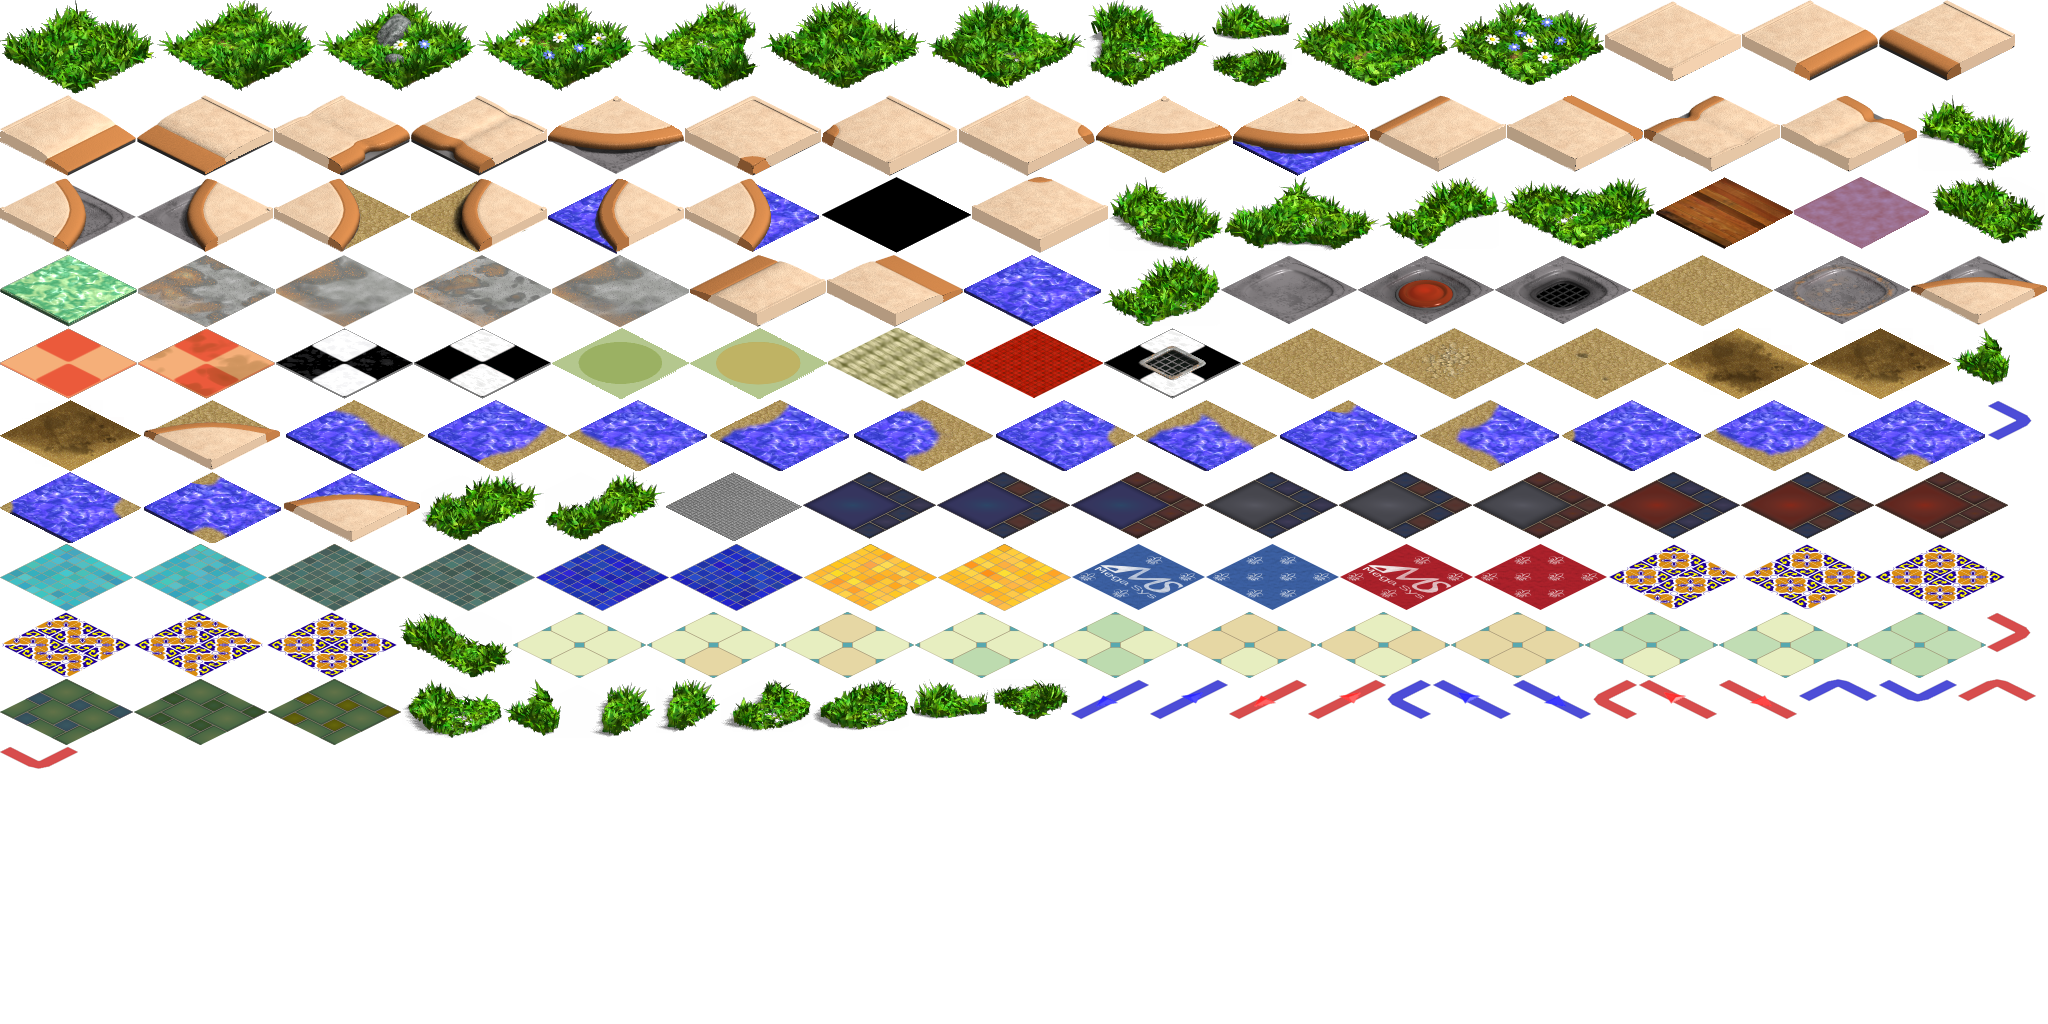
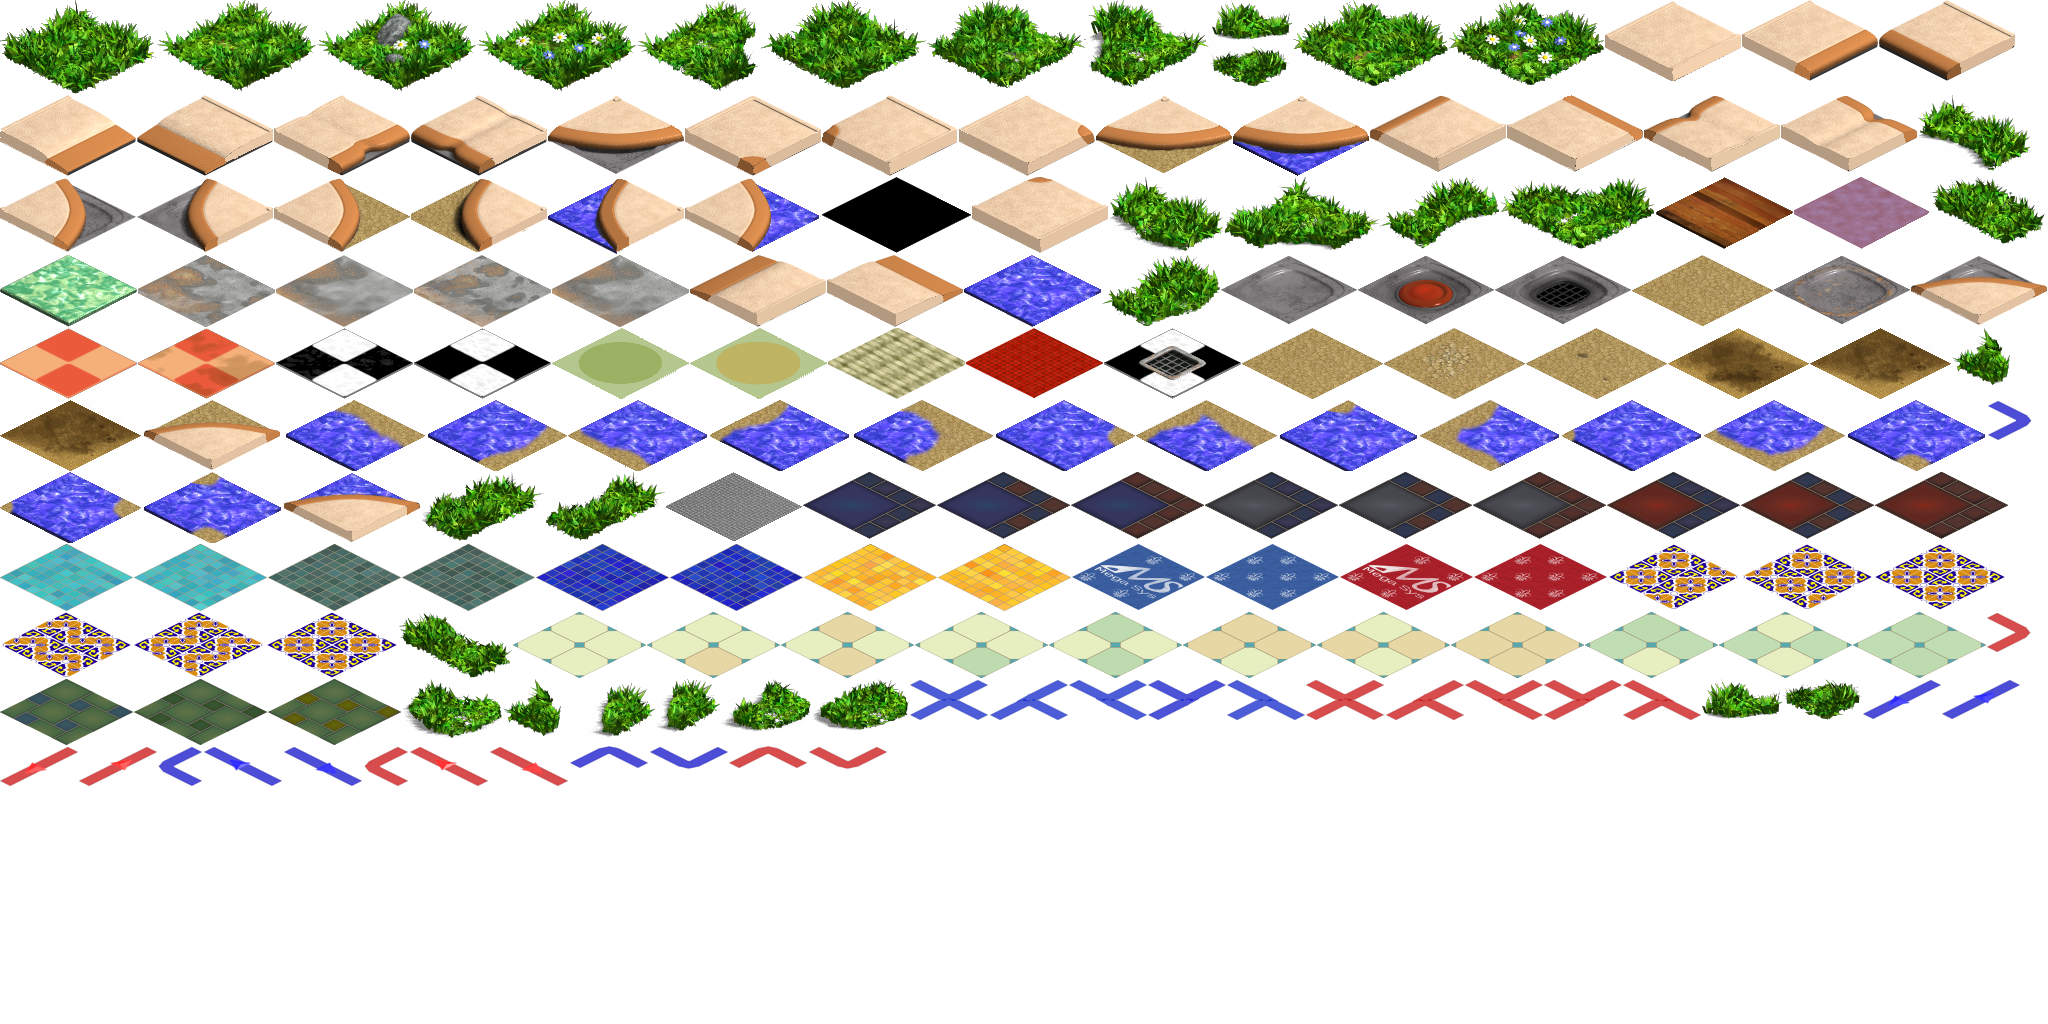
floor tiles: implement missing variants of the ground markers.
git-svn-id: https://freedroid.svn.sourceforge.net/svnroot/freedroid@5171 524c2bfb-fa3f-0410-b5a2-92f4e1dc5b61

Changed region(s): [[0.4375, 0.6562, 1.0, 0.7188], [0.0, 0.7188, 0.4375, 0.7812]]

diff --git a/src/defs.h b/src/defs.h
@@ -1422,7 +1422,17 @@ enum {
 	ISO_GROUNDMARKER_RED_5,
 	ISO_GROUNDMARKER_RED_6,
 	ISO_GROUNDMARKER_RED_7,
-	ISO_GROUNDMARKER_RED_8
+	ISO_GROUNDMARKER_RED_8,
+	ISO_GROUNDMARKER_BLUE_Y_1,
+	ISO_GROUNDMARKER_BLUE_Y_2,
+	ISO_GROUNDMARKER_BLUE_Y_3,
+	ISO_GROUNDMARKER_BLUE_Y_4,
+	ISO_GROUNDMARKER_BLUE_X_1,
+	ISO_GROUNDMARKER_RED_Y_1,
+	ISO_GROUNDMARKER_RED_Y_2,
+	ISO_GROUNDMARKER_RED_Y_3,
+	ISO_GROUNDMARKER_RED_Y_4,
+	ISO_GROUNDMARKER_RED_X_1
 };
 
 #define MAX_FLOOR_LAYERS 2

diff --git a/src/lvledit/lvledit_object_lists.c b/src/lvledit/lvledit_object_lists.c
@@ -212,6 +212,16 @@ static int floor_tiles_array[] = {
 	ISO_GROUNDMARKER_RED_6,
 	ISO_GROUNDMARKER_RED_7,
 	ISO_GROUNDMARKER_RED_8,
+	ISO_GROUNDMARKER_BLUE_Y_1,
+	ISO_GROUNDMARKER_BLUE_Y_2,
+	ISO_GROUNDMARKER_BLUE_Y_3,
+	ISO_GROUNDMARKER_BLUE_Y_4,
+	ISO_GROUNDMARKER_BLUE_X_1,
+	ISO_GROUNDMARKER_RED_Y_1,
+	ISO_GROUNDMARKER_RED_Y_2,
+	ISO_GROUNDMARKER_RED_Y_3,
+	ISO_GROUNDMARKER_RED_Y_4,
+	ISO_GROUNDMARKER_RED_X_1,
 	-1
 };
 
